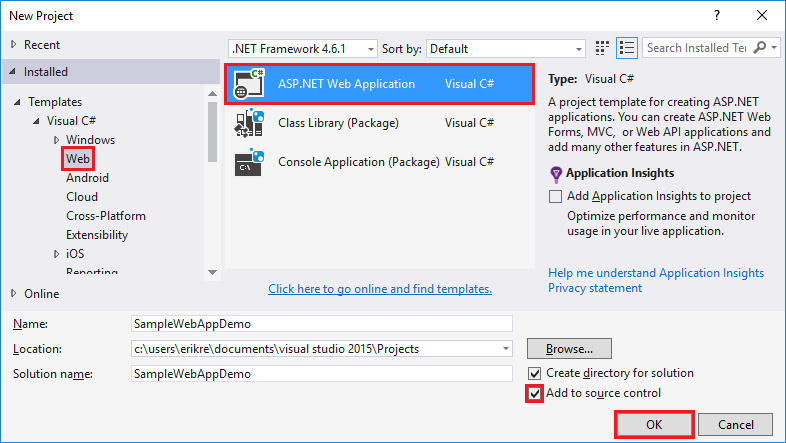
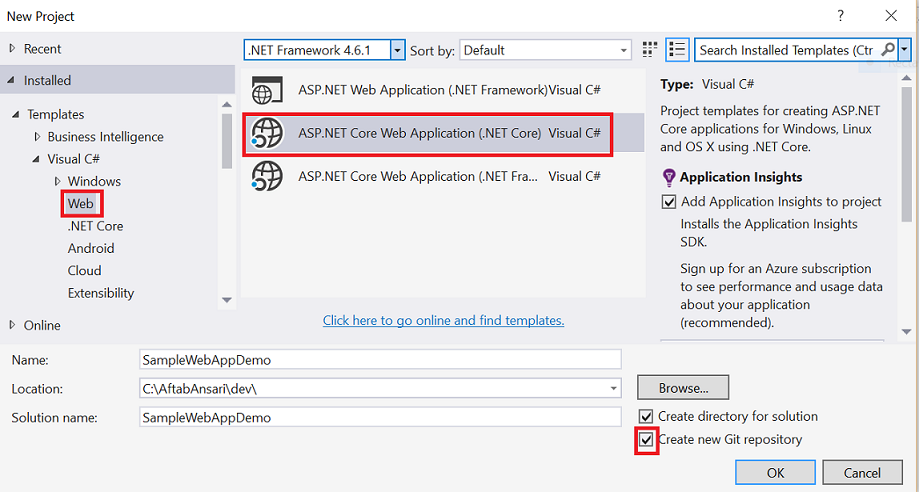
Aftab ansari/azure continuous deployment patch (#3288)
* replaced with latest VS project template images

* source control dialog removed

diff --git a/aspnetcore/publishing/azure-continuous-deployment.md b/aspnetcore/publishing/azure-continuous-deployment.md
@@ -39,7 +39,7 @@ This tutorial assumes you have already installed the following:
 
 2. From the **File** menu, select **New** > **Project**.
 
-3. Select the **ASP.NET Web Application** project template. It appears under **Installed** > **Templates** > **Visual C#** > **Web**. Name the project `SampleWebAppDemo`. Select the **Add to source control** option and click **OK**.
+3. Select the **ASP.NET Web Application** project template. It appears under **Installed** > **Templates** > **Visual C#** > **Web**. Name the project `SampleWebAppDemo`. Select the **Create new Git respository** option and click **OK**.
 
    ![New Project dialog](azure-continuous-deployment/_static/01-new-project.png)
 
@@ -47,9 +47,6 @@ This tutorial assumes you have already installed the following:
 
    ![New ASP.NET Project dialog](azure-continuous-deployment/_static/02-web-site-template.png)
 
-5. From the **Choose Source Control** dialog box, select **Git** as the source control system for the new project.
-
-   ![Choose Source Control dialog](azure-continuous-deployment/_static/03-source-control.png)
 
 ### Running the web app locally
 
